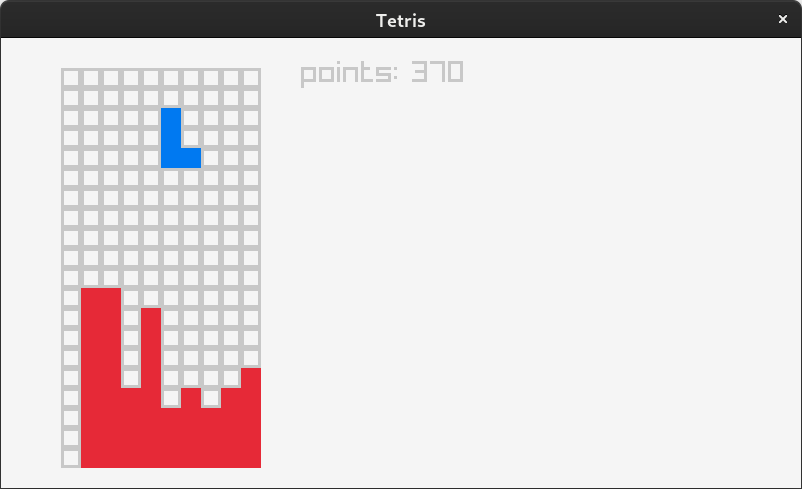
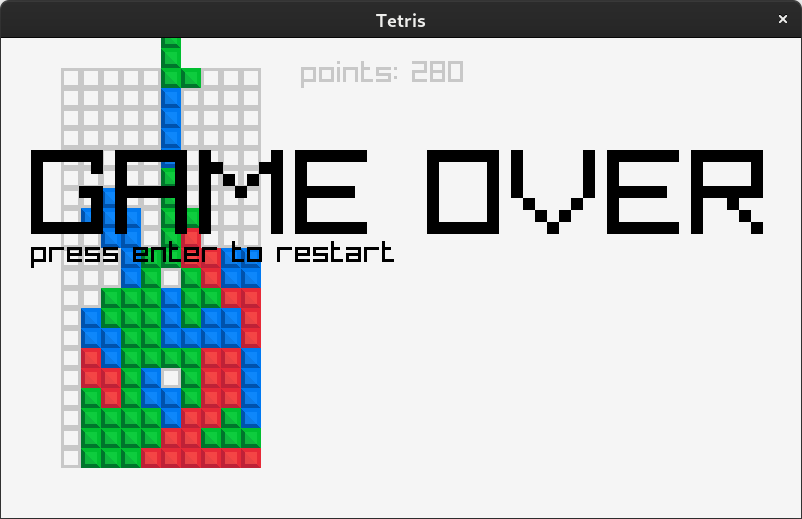
highscore

diff --git a/src/sceen_gameplay.c b/src/sceen_gameplay.c
@@ -7,6 +7,7 @@
 #include "vectormath2i.h"
 #include "shapes.h"
 #include "screen_manager.h"
+#include "highscore.h"
 
 #define BLOCK_SIZE 20
 #define WELL_HEIGHT 20
@@ -43,6 +44,7 @@ GameState currentState;
 GameState unPausedState;
 static int staticBlocks[WELL_HEIGHT][WELL_WIDTH] = {{0}};
 Vector2i tetrisHolderPos;
+static int nextPiece;
 static int screenWidth;
 static int screenHeight;
 static Vector2i holderStartPos;
@@ -52,6 +54,7 @@ static char pointText[100];
 static int tetrisHolder[HOLDER_SIZE][HOLDER_SIZE];
 static float tickLength;
 static float lastTick;
+static bool newHighScore;
 
 void rotateGrid90(int src[HOLDER_SIZE][HOLDER_SIZE], int dest[HOLDER_SIZE][HOLDER_SIZE], int rotation) {
     // Normalize rotation to 0, 90, 180, 270
@@ -165,6 +168,11 @@ void gameTick(void) {
         if(holderTooHigh(tetrisHolder, tetrisHolderPos)) {
             // GAME OVER
             currentState = STATE_GAME_OVER;
+            int highscore = LoadHighscore();
+            if(points > highscore) {
+                SaveHighscore(points);
+                newHighScore = true;
+            }
             return;
         }
         //add holder content to static blocks
@@ -175,7 +183,8 @@ void gameTick(void) {
                 }
             }
         }
-        int newShapeIndex = GetRandomValue(0,6);
+        int newShapeIndex = nextPiece;
+        nextPiece = GetRandomValue(0,6);
         int color = GetRandomValue(1, 3);
         memcpy(tetrisHolder, shapes[newShapeIndex], sizeof(tetrisHolder));
         colorHolder(tetrisHolder, color);
@@ -221,10 +230,13 @@ void ScreenGameplay_Init(void)
     
     //players points
     points = 0;
+    newHighScore = false;
 
     // int emptyHolder[HOLDER_SIZE][HOLDER_SIZE] = {0};
     
     memcpy(tetrisHolder, four, sizeof(grib));
+    nextPiece = GetRandomValue(0,6);
+
 
     tickLength = 0.5;
     lastTick = tickLength;
@@ -342,8 +354,15 @@ void ScreenGameplay_Draw(void) {
         if(currentState == STATE_PAUSED)
             DrawText("PAUSED", 300, 20, 120, BLACK);
 
-        if(currentState == STATE_GAME_OVER)
-            DrawText("GAME OVER\npress enter to restart", 30, 100, 120, BLACK);
+        if(currentState == STATE_GAME_OVER) {
+            if(newHighScore) {
+                DrawText("NEW HIGH SCORE!", 30, 100, 80, BLACK);
+                DrawText(pointText, 30, 250, 50, RED);
+            }else {
+                DrawText("GAME OVER", 30, 100, 120, BLACK);
+            }
+            DrawText("press enter to restart", 30, 200, 30, BLACK);
+        }
 
 
     EndDrawing();

diff --git a/src/screen_menu.c b/src/screen_menu.c
@@ -1,10 +1,15 @@
 #include "screen_menu.h"
 #include "raylib.h"
 #include "screen_manager.h"
+#include "highscore.h"
+
+int highScore;
+char scoreText[50];
 
 void ScreenMenu_Init(void)
 {
     // Initialize menu screen
+    highScore = LoadHighscore();
 }
 
 void ScreenMenu_Update(void)
@@ -21,8 +26,15 @@ void ScreenMenu_Draw(void)
     BeginDrawing();
     ClearBackground(RAYWHITE);
     
-    DrawText("TETRIS", 350, 200, 40, DARKGRAY);
-    DrawText("Press ENTER to start", 320, 280, 20, GRAY);
+    DrawText("TETRIS", 300, 200, 40, DARKGRAY);
+    DrawText("Press ENTER to start", 290, 280, 20, GRAY);
+
+    if(highScore > 0) {
+        snprintf(scoreText, 50, "Highscore: %d", highScore );
+        DrawText(scoreText, 290, 310, 30, MAROON);
+    }
+
+
     
     EndDrawing();
 }

diff --git a/src/highscore.h b/src/highscore.h
@@ -1,0 +1,26 @@
+#ifndef HIGHSCORE_H
+#define HIGHSCORE_H
+
+#include <stdio.h>
+
+#define HIGHSCORE_FILE "highscore.txt"
+
+int LoadHighscore() {
+    FILE *file = fopen(HIGHSCORE_FILE, "r");
+    if (!file) return 0;
+
+    int score = 0;
+    fscanf(file, "%d", &score);
+    fclose(file);
+    return score;
+}
+
+void SaveHighscore(int score) {
+    FILE *file = fopen(HIGHSCORE_FILE, "w");
+    if (!file) return;
+
+    fprintf(file, "%d\n", score);
+    fclose(file);
+}
+
+#endif // HIGHSCORE_H

diff --git a/README.md b/README.md
@@ -1,6 +1,4 @@
 # Raylib Tetris 
 ![screenshot](screenshot.png)
 
-Simple tetris clone with raylib mainly to practive C programming and for fun.
-
-As of this README.md latest update the game doesn't have win or lose conditions.
+Simple tetris clone with raylib mainly to practice C programming and for fun.
